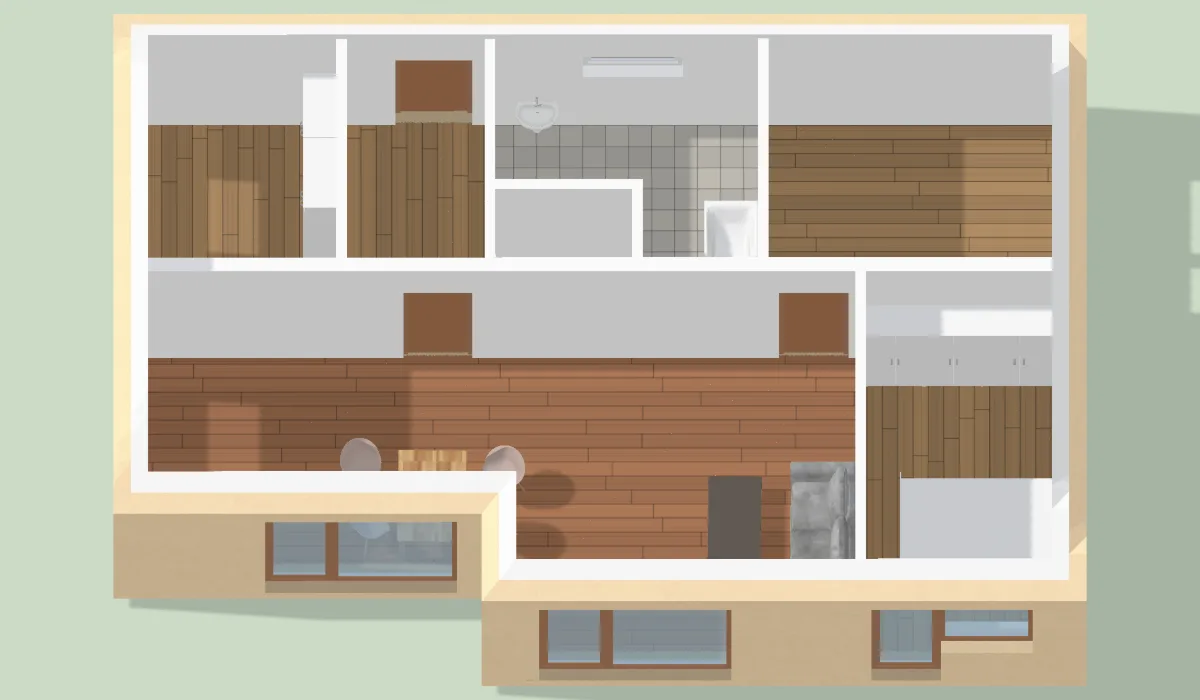
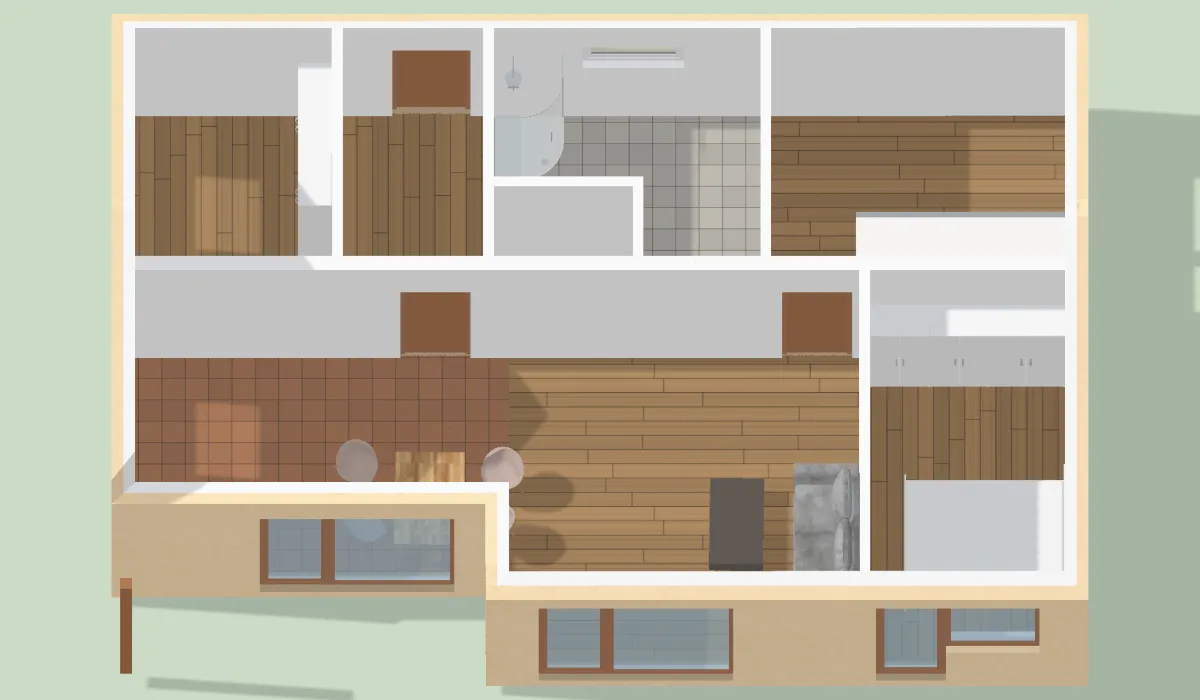
Jak nakreslit půdorys: vzorový dům beze změn (nízkoenergetická dřevostavba, zdi 30 cm), článek zveřejněný
Libor 11. 11. 2026: vzor je jeho skutečný dům, zdi 30 cm odpovídají dřevostavbě a dveře WC normě,
kopie pro obrázky ho proto už neupravuje. Popisek uvádí dřevostavbu a nové plochy (vlastní kuchyň).

diff --git a/resources/clanky/cs/jak-nakreslit-pudorys-domu.md b/resources/clanky/cs/jak-nakreslit-pudorys-domu.md
@@ -7,7 +7,7 @@ publikovano: 2026-11-11
 overeno: 2026-11-11
 revize: 2026-11-11
 autor: Libor z TupTuDu
-stav: koncept
+stav: zverejneno
 obrazek: /img/clanky/jak-nakreslit-pudorys-domu/jak-nakreslit-pudorys-domu.jpg
 souvisejici: minimalni-rozmery-mistnosti, vypocet-schodiste, typy-strech, barva-fasady
 - Vyhláška č. 146/2024 Sb. o požadavcích na výstavbu, § 11 (odstup rodinného domu od hranice pozemku 2 m) | https://www.zakonyprolidi.cz/cs/2024-146
@@ -24,7 +24,7 @@ souvisejici: minimalni-rozmery-mistnosti, vypocet-schodiste, typy-strech, barva-
 - ESTAV.cz: Schodiště a jeho základní rozměry (2h + b = 630 mm) | https://www.estav.cz/cz/2581.schodiste-a-jeho-zakladni-rozmery
 - Kalkulačka TupTuDu (článek Výpočet schodiště): 2,90 m mezi podlažími = 17 výšek po 171 mm, nášlap 289 mm, přímé rameno 4,62 m; 3,05 m = 18 výšek, rameno 4,95 m (nášlap aspoň 275 mm podle vyhlášky 146/2024 Sb.) | https://www.tuptudu.com
 ---
-::obrazek /img/clanky/jak-nakreslit-pudorys-domu/pudorys-prizemi.webp | Půdorys přízemí rodinného domu s kótami v centimetrech a s názvy a plochami místností: obývák s kuchyní 32,3 m², pokoj 11,6 m², ložnice 10,1 m², koupelna 8,5 m², pracovna 7,7 m², zádveří 5,6 m², WC 1,8 m². | Přízemí vzorového domu 12,69 × 8,38 m s obvodovými zdmi 45 cm, kótami, místnostmi a plochami, editor TupTuDu | 1200 | 860
+::obrazek /img/clanky/jak-nakreslit-pudorys-domu/pudorys-prizemi.webp | Půdorys přízemí rodinného domu s kótami v centimetrech a s názvy a plochami místností: obývák 19,0 m², kuchyně 14,3 m², pokoj 12,1 m², ložnice 10,6 m², koupelna 8,8 m², pracovna 8,1 m², zádveří 5,8 m², WC 1,8 m². | Přízemí vzorového domu 12,54 × 8,23 m, nízkoenergetické dřevostavby s obvodovými zdmi 30 cm, s kótami, místnostmi a plochami, editor TupTuDu | 1200 | 857
 
 ## Než začneš kreslit
 
@@ -38,7 +38,7 @@ Sepiš místnosti s přibližnou plochou a rozděl je na denní a noční část
 2. **Vnitřní nosné stěny.** Spolu s obvodovými nesou strop a patro. Nosné stěny v patře proto kresli nad nosnými stěnami přízemí.
 3. **Schody.** U patrového domu je umísti dřív než příčky. Nad schody musí být ve stropě nad přízemím otvor dost dlouhý na podchodnou výšku 2,1 m a před nástupem i za výstupem volné místo. Počet a výšku stupňů ti spočítá článek [výpočet schodiště](clanek:vypocet-schodiste).
 4. **Příčky.** Dělí místnosti, strop nenesou a jsou tenčí.
-5. **Okna a dveře.** Okna rozmísti podle světových stran a mysli na nábytek, který pod nimi bude stát. V Česku je otvor ve zdi kvůli zárubni asi o 10 cm širší než dveře. Dveře nedávej úplně do rohu a hlídej, kam se křídlo otevírá. Dveře WC a malé koupelny otevírej ven.
+5. **Okna a dveře.** Okna rozmísti podle světových stran a mysli na nábytek, který pod nimi bude stát. V Česku je otvor ve zdi kvůli zárubni asi o 10 cm širší než dveře. Dveře nedávej úplně do rohu a hlídej, kam se křídlo otevírá. Dveře malého WC a malé koupelny otevírej ven.
 6. **Místnosti.** Každý uzavřený prostor pojmenuj a porovnej jeho plochu se seznamem.
 7. **Nábytek.** Postel, stůl a skříně vlož ve skutečné velikosti. Teprve tady se ukáže, jestli je ložnice opravdu dost velká.
 8. **Kontrola.** Projdi cestu od vchodu do kuchyně a do koupelny, žádná by neměla vést přes jiný pokoj. Zkontroluj vnější rozměry a odstupy od hranic.

diff --git a/modules/blog.md b/modules/blog.md
@@ -346,7 +346,7 @@ projít očima (pravidlo 13), kontrolní půdorysy jsou v `services/import-test/
 | minimalni-rozmery-mistnosti | `minimalni-rozmery-mistnosti-uvod` (úvod i náhled) | Nová scéna `nocniZona`: noční část domu, obvodové zdi 45 cm, příčky 15 cm, ložnice 3 × 3 a 4 × 3 m s postelí 165 × 210, stolky a skříní, chodba 120 cm, hala se vchodem a botníkem, koupelna s vanou, WC a umyvadlem, obývák; 3D shora bez obýváku |
 | minimalni-rozmery-mistnosti | `loznice-pudorys` | Stejná scéna, výřez severní části s kótami (rozměry v popiscích), popisky ložnic nad postelí a nad nábytkem, aby pruh u nohou postele zůstal volný |
 | minimalni-rozmery-mistnosti | `chodba-90-120` | Scéna dvakrát s chodbou 90 a 120 cm, výřez kolem chodby, nakreslení lidé (ramena 55 cm): v užší jeden, v širší dva vedle sebe |
-| jak-nakreslit-pudorys-domu | `pudorys-prizemi` (úvod), `dum-3d-bez-strechy`, náhled | Kopie vzoru upravená jen pro obrázky: obvodové zdi 45 cm, dveře WC ven do zádveří, mísa, vana a umyvadlo, obývák „Obývák s kuchyní“, bez sloupu; půdorys natočený do os s kótami a bez nábytku, 3D bez střechy s nábytkem |
+| jak-nakreslit-pudorys-domu | `pudorys-prizemi` (úvod), `dum-3d-bez-strechy`, náhled | Kopie vzoru beze změn: je to Liborův skutečný dům, nízkoenergetická dřevostavba se zdmi 30 cm, dveře WC dovnitř odpovídají normě, vybavení doplňuje Libor sám (nic nepřidávat ani „neopravovat“); půdorys natočený do os s kótami a bez nábytku, 3D bez střechy s nábytkem. Plochy v popisku obrázku převzít z výpisu skriptu |
 | vypocet-schodiste | `schodiste-v-hale-3d`, náhled | Nová scéna: patrový dům 11 × 9 m, přímé schody 2,90 m v hale podél nosné stěny, vchod z ulice, dveře do pracovny, na WC a do obýváku, okna mimo schody; 3D přízemí bez patra a střechy od severu |
 | kolik-zeminy-z-vykopu | `vykop-svah`, `zaklad-svah` (+ náhled `vykop-svah.jpg`) | `snimky-zemina.cjs`: dům 12 × 10 m na svahu 10 %, okna ze všech stran, vchod na horní straně, střecha `taska-cervena`; jáma bez domu a dům se základem protaženým k zemi, základ pro názornost šedě (v editoru má barvu fasády) |
 
